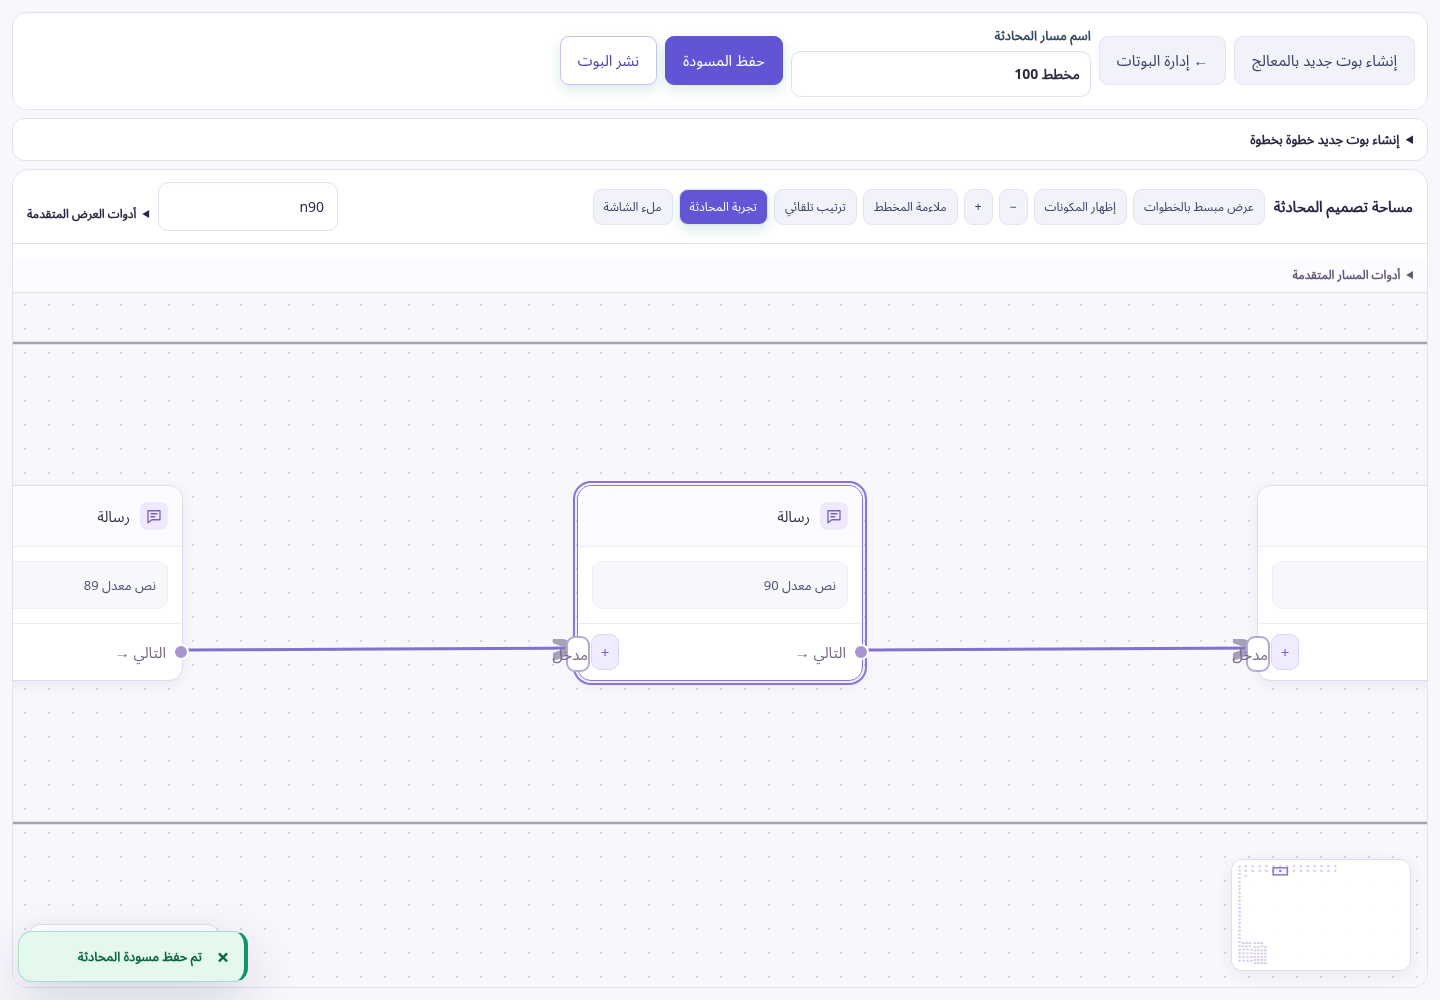
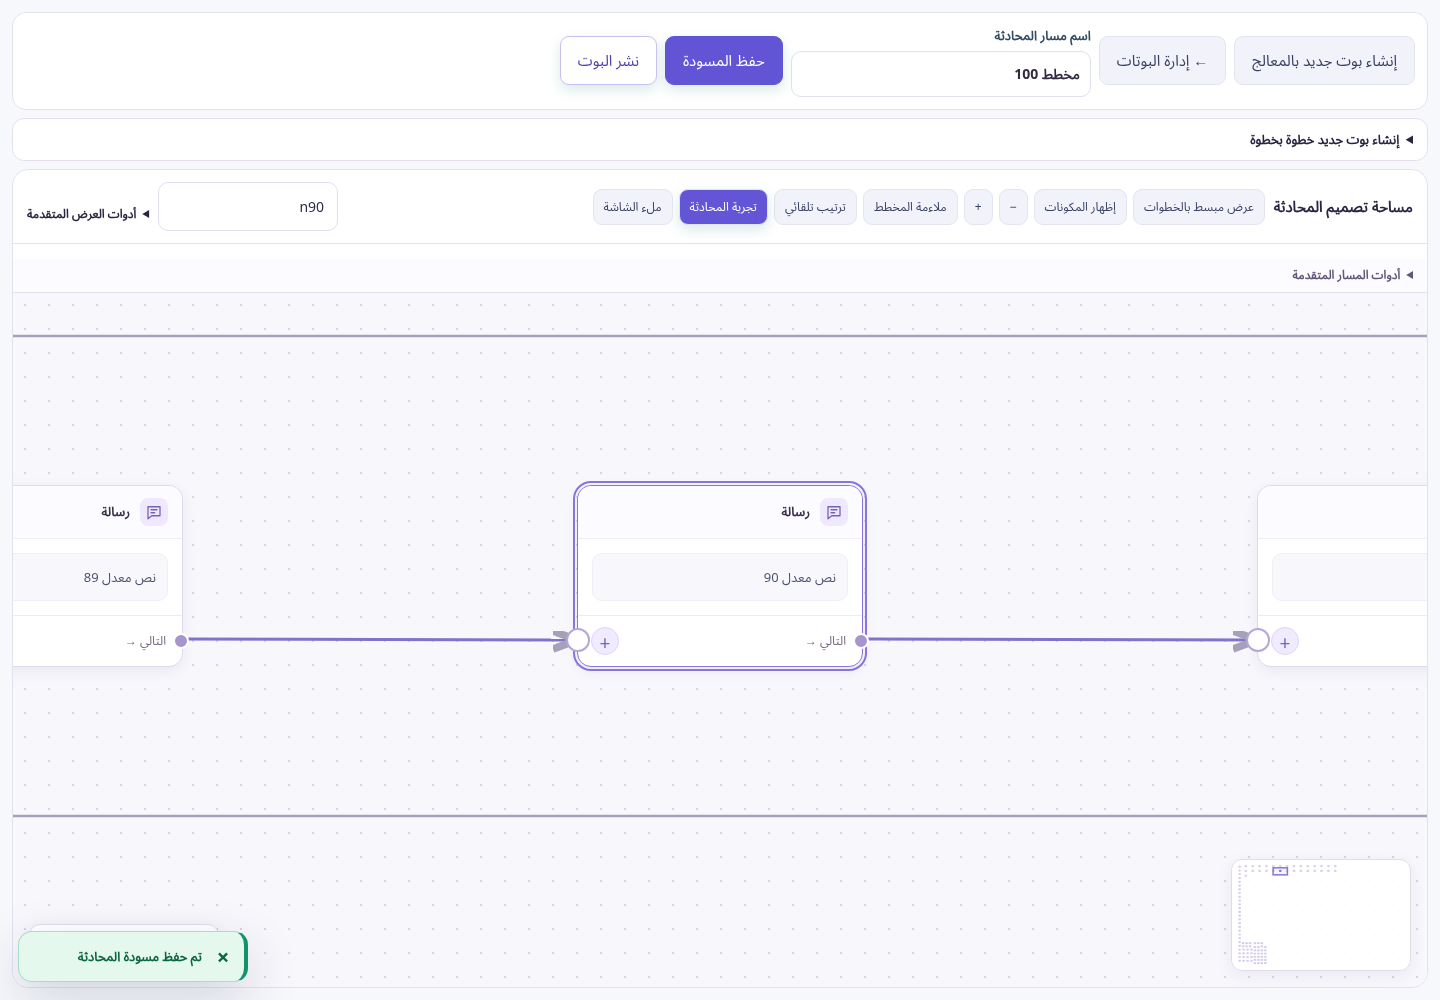
fix(flow-builder): fit restored graphs after workspace becomes visible

diff --git a/apps/web/public/flow-builder.css b/apps/web/public/flow-builder.css
@@ -66,16 +66,16 @@
 .canvas-condition .canvas-kind-indicator{background:#fff1d8;color:#9a6b27}
 
 .canvas-handoff .canvas-kind-indicator{background:#ffe9e2;color:#ad6751}
-.canvas-node .canvas-title{flex:1;border:0;background:transparent;color:#393047;font-size:13px;font-weight:750;text-align:right;padding:0;cursor:grab;touch-action:none;min-height:28px}
+#flow-builder .canvas-node .canvas-title{flex:1;border:0;background:transparent;color:#393047;font-size:13px;font-weight:750;text-align:right;padding:0;cursor:grab;touch-action:none;min-height:28px}
 .canvas-message{padding:14px}.canvas-message-text{font-size:13px;line-height:1.85;background:#f8f7fc;border:1px solid #f0edf6;border-radius:10px;padding:11px;white-space:pre-wrap;overflow-wrap:anywhere;margin:0;max-height:150px;overflow:auto;min-height:45px}
 .canvas-card-choices{display:grid;gap:5px;margin-top:8px}.canvas-card-choice{padding:8px;border:1px solid #e8e1fa;border-radius:8px;color:#6650a8;text-align:center;font-size:12px;background:#fdfcff}.canvas-card-choice small{display:block;color:#777080}
 .canvas-media-hint,.canvas-list-label{display:block;font-size:12px;color:#777080;margin-top:8px}
 .canvas-ports{padding:10px 13px;border-top:1px solid #eeeaf5;display:grid;gap:6px;position:relative}
-.canvas-node button{font:inherit;cursor:pointer}.canvas-node .canvas-input{position:absolute;left:-12px;top:12px;border:2px solid #b5a8d6;border-radius:50%;background:#fff;color:#746685;font-size:0;padding:0;min-height:24px;width:24px;height:24px;margin:0;display:block}
+.canvas-node button{font:inherit;cursor:pointer}#flow-builder .canvas-node .canvas-input{position:absolute;left:-12px;top:12px;border:2px solid #b5a8d6;border-radius:50%;background:#fff;color:#746685;font-size:0;padding:0;min-height:24px;width:24px;height:24px;margin:0;display:block}
 .canvas-port:after{content:'';position:absolute;right:-7px;width:12px;height:12px;background:#a695ce;border:2px solid #fff;border-radius:50%;pointer-events:none}.canvas-port{display:flex;align-items:center;justify-content:space-between;gap:8px}
-.canvas-node .canvas-output{border:0;background:transparent;color:#756683;font-size:12px;padding:3px;min-height:30px;max-width:210px;overflow:hidden;text-overflow:ellipsis;white-space:nowrap;touch-action:none}
-.canvas-node .canvas-output.connecting{color:#6155d6;background:#f0eaff}
-.canvas-node .canvas-add{background:#f0ebff;color:#7861c1;border:1px solid #ded3fa;border-radius:50%;width:28px;min-height:28px;height:28px;font-size:19px;padding:0}
+#flow-builder .canvas-node .canvas-output{border:0;background:transparent;color:#756683;font-size:12px;padding:3px;min-height:30px;max-width:210px;overflow:hidden;text-overflow:ellipsis;white-space:nowrap;touch-action:none}
+#flow-builder .canvas-node .canvas-output.connecting{color:#6155d6;background:#f0eaff}
+#flow-builder .canvas-node .canvas-add{background:#f0ebff;color:#7861c1;border:1px solid #ded3fa;border-radius:50%;width:28px;min-height:28px;height:28px;font-size:19px;padding:0}
 .canvas-group{position:absolute;pointer-events:none;border:2px dashed #b8a7d7;background:#eee6ff40;border-radius:20px;z-index:0}.canvas-group-title{position:absolute;top:8px;right:12px;color:#775d91;font-size:13px}
 .canvas-navigation{position:absolute;bottom:16px;left:16px;display:flex;align-items:center;gap:2px;padding:4px;background:#fff;border:1px solid #e3dcee;border-radius:11px;box-shadow:0 4px 16px #29264112;z-index:6}
 .canvas-navigation button{border:0;background:#fff;color:#4d405f;padding:6px 10px;font-size:13px;min-height:34px}.canvas-navigation button:hover{background:#f0edff}.canvas-navigation .canvas-zoom{min-width:58px;font-variant-numeric:tabular-nums}

diff --git a/apps/web/public/flow-canvas.js b/apps/web/public/flow-canvas.js
@@ -4,7 +4,7 @@ export function createCanvas({host,getFlow,select,changed,notify,addAfter,getSel
   const ns='http://www.w3.org/2000/svg';
   const titles={SET_FIELD:'تعيين قيمة حقل',RANDOMIZER:'توزيع عشوائي A/B',START:'بداية المحادثة',TEXT:'رسالة',BUTTONS:'أزرار الرد',LIST:'قائمة اختيارات',INPUT:'سؤال العميل',QUESTION:'سؤال',CONDITION:'شرط وتفرع',KEYWORD:'كلمات مفتاحية',CATALOG:'المنتجات والخدمات',HANDOFF:'تحويل لموظف',MEDIA:'صورة أو ملف',END:'نهاية المحادثة',TAG:'تصنيف',DELAY:'انتظار',AI:'المساعد الذكي',SUBFLOW:'مسار فرعي',WEBHOOK:'تكامل',CONNECTOR:'موصل',LINK:'رابط'};
   const edges=graphOutputs;
-  let zoom=1,pan={x:36,y:36},source=null,active=null,selectedEdge=null,space=false,connectionGeneration=0;
+  let zoom=1,pan={x:36,y:36},source=null,active=null,selectedEdge=null,space=false,connectionGeneration=0,pendingFit=false;
   host.tabIndex=0;
   host.classList.add('flow-canvas');host.dir='ltr';host.setAttribute('role','region');
   host.setAttribute('aria-label','مساحة رسم المحادثة؛ Alt مع الأسهم لتحريك الخطوة المحددة؛ Shift يزيد المسافة. استخدم Tab لاختيار المخارج');
@@ -98,7 +98,7 @@ export function createCanvas({host,getFlow,select,changed,notify,addAfter,getSel
           const choice=from.choices?.find(c=>c.id===source.key.slice(7));
           if(!choice)return notify('تعذر تحديد الاختيار','error');choice.next=target;
         }else from[source.key]=target;
-        source=null;changed();draw();highlight(target);
+        source=null;selectedEdge=null;edgeTools.hidden=true;changed();draw();highlight(target);
       };
       const input=btn(source?'اضغط لتوصيل المسار':'مدخل','canvas-input',()=>connectTo(n.id));
       input.setAttribute('aria-label','توصيل المسار إلى '+(titles[n.type]||'الخطوة'));
@@ -189,6 +189,7 @@ export function createCanvas({host,getFlow,select,changed,notify,addAfter,getSel
   }
   const zoomTo=(v,x=host.clientWidth/2,y=host.clientHeight/2)=>{const old=zoom;zoom=Math.max(.1,Math.min(2,v));pan={x:x-(x-pan.x)*zoom/old,y:y-(y-pan.y)*zoom/old};transform()};
   function fit(){
+    if(!host.clientWidth||!host.clientHeight){pendingFit=true;return}pendingFit=false;
     const f=getFlow(),points=Object.values(positionsFor(f));
     if(!points.length)return reset();
     const nodes=f.nodes,positions=positionsFor(f);
@@ -213,7 +214,7 @@ export function createCanvas({host,getFlow,select,changed,notify,addAfter,getSel
     const stop=()=>{if(box){const r=box.getBoundingClientRect();const ids=[...stage.querySelectorAll('.canvas-node')].filter(c=>{const b=c.getBoundingClientRect();return b.left<r.right&&b.right>r.left&&b.top<r.bottom&&b.bottom>r.top}).map(c=>c.dataset.nodeId);box.remove();selectMany(ids);highlight(ids[0])}host.removeEventListener('pointermove',move);host.removeEventListener('pointerup',stop);host.removeEventListener('pointercancel',stop)};
     host.addEventListener('pointermove',move);host.addEventListener('pointerup',stop);host.addEventListener('pointercancel',stop);
   });
-  const resize=new ResizeObserver(()=>paintMap());resize.observe(host);
+  const resize=new ResizeObserver(()=>{if(pendingFit&&host.clientWidth&&host.clientHeight)fit();else paintMap()});resize.observe(host);
   function focus(id){
     const p=positionsFor(getFlow())[id];if(!p)return fit();
     const area=host.getBoundingClientRect();zoom=1;

diff --git a/docs/product-rebuild/implementation/premium-2026-10-20/TESTS.md b/docs/product-rebuild/implementation/premium-2026-10-20/TESTS.md
@@ -36,3 +36,5 @@ Actual browser-UI zoom was unavailable in this headless configuration. The 200% 
 - Repeated manual launches exhausted the real 10-per-600-second login window. Waited for its normal boundary and used separate actors in the combined harness. Production throttle code/limits are unchanged.
 
 Final combined outcome and logs: `verification.txt`. No result establishes live provider readiness.
+
+Final targeted Chromium rerun also verifies initial fit waits for the hidden workspace to become visible; source stylesheet port rules retain their own font and size instead of inheriting generic button text.
